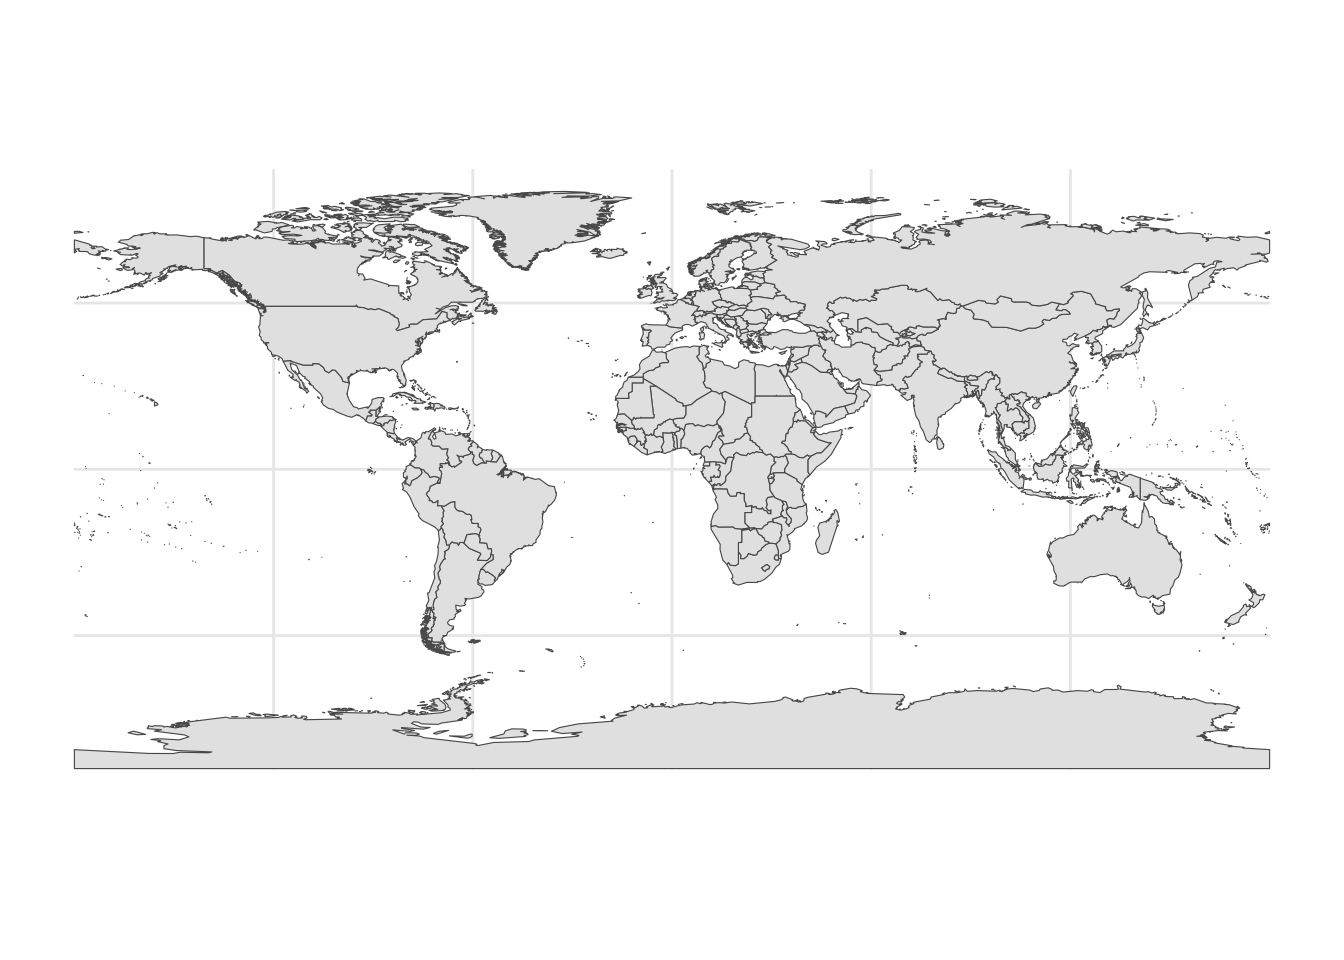
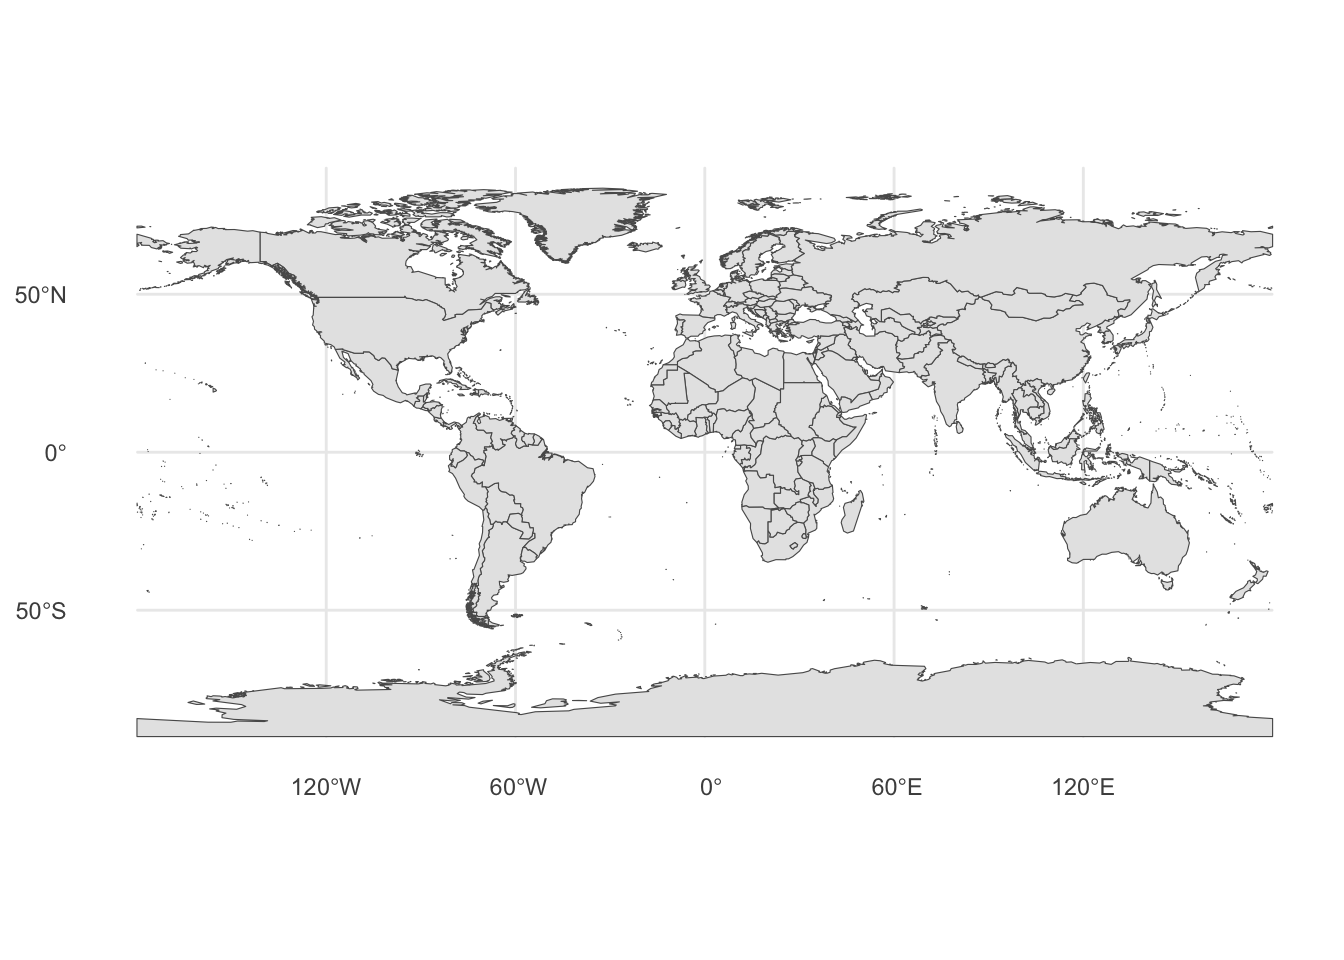
updated course outline

Changed region(s): [[0.0, 0.1875, 0.9688, 0.8438], [0.9062, 0.5938, 0.9375, 0.6562], [0.0, 0.625, 0.0625, 0.6562]]

diff --git a/docs/courseoutline.html b/docs/courseoutline.html
@@ -373,7 +373,7 @@ ul.task-list li input[type="checkbox"] {
 </div>
 </div>
 <div class="callout-body-container callout-body">
-<p>Mapping is fun. Many people enjoy looking at maps, and find them informative and helpful. Many people find it very fun to learn how to make maps. At the same time, making even basic maps with geographic data can be challenging. Making an aesthetically pleasing and useful map can be very challenging. We will work hard in this course to learn these important skills. At the same time, we will have fun doing so!</p>
+<p>Mapping is fun. Many people enjoy looking at maps, and find them informative and helpful. Many people find it very fun to learn how to make maps. At the same time, making even basic maps with geographic data can be challenging. Making an aesthetically pleasing and useful map can also be very challenging. We will work hard in this course to learn these important skills. At the same time, we will have fun doing so!</p>
 </div>
 </div>
 <section id="sec-fiveweek" class="level2" data-number="2.1">
@@ -382,21 +382,21 @@ ul.task-list li input[type="checkbox"] {
 <li>Introduction
 <ul>
 <li>Introduction to the Course</li>
-<li>Introduction to Shapefiles (and Possibly <code>sf</code> Objects) As GIS Data</li>
+<li>Introduction to Shapefiles (<a href="shapefiles.html" class="quarto-xref"><span>Chapter 8</span></a>) (and Possibly <code>sf</code> Objects) (<a href="sf.html" class="quarto-xref"><span>Chapter 7</span></a>) as GIS Data</li>
 <li>Introduction to Appropriate Software: R / RStudio / <code>sf</code> / <code>ggplot</code>; or ArcGIS; or QGIS; or Tableau</li>
 <li>Quick Mapping Exercise</li>
 </ul></li>
 <li>Basic GIS Skills
 <ul>
-<li>Symbology</li>
-<li>Joining by Attribute</li>
+<li>Symbology (<a href="symbology.html" class="quarto-xref"><span>Chapter 11</span></a>)</li>
+<li>Joining by Attribute (<a href="merge-with-external-data.html" class="quarto-xref"><span>Chapter 15</span></a>)</li>
 </ul></li>
 <li>Data With Geographic Coordinates &amp; Geographic Concepts
 <ul>
-<li>Data With Latitude and Longitude</li>
-<li>Coordinate Reference Systems</li>
+<li>Data With Latitude and Longitude (<a href="location-data.html" class="quarto-xref"><span>Chapter 16</span></a>)</li>
+<li>Coordinate Reference Systems (<a href="crs.html" class="quarto-xref"><span>Chapter 6</span></a>)</li>
 </ul></li>
-<li>Geocoding</li>
+<li>Geocoding (<a href="geocoding.html" class="quarto-xref"><span>Chapter 17</span></a>)</li>
 <li>Lab Day for Final Projects</li>
 </ol>
 </section>

diff --git a/docs/crs.html b/docs/crs.html
@@ -126,7 +126,7 @@ pre > code.sourceCode > span > a:first-child::before { text-decoration: underlin
 <meta name="twitter:image-height" content="960">
 <meta name="twitter:image-width" content="1344">
 <meta name="twitter:card" content="summary_large_image">
-<meta name="citation_title" content="[6]{.chapter-number}&nbsp; [Coordinate Reference Systems (CRS)]{.chapter-title}">
+<meta name="citation_title" content="[[6]{.chapter-number}&nbsp; [Coordinate Reference Systems (CRS)]{.chapter-title}]{#sec-CRS .quarto-section-identifier}">
 <meta name="citation_fulltext_html_url" content="https://agrogan1.github.io/mapping/crs.html">
 <meta name="citation_language" content="en">
 </head>
@@ -394,7 +394,7 @@ pre > code.sourceCode > span > a:first-child::before { text-decoration: underlin
 
 <header id="title-block-header" class="quarto-title-block default"><nav class="quarto-page-breadcrumbs quarto-title-breadcrumbs d-none d-lg-block" aria-label="breadcrumb"><ol class="breadcrumb"><li class="breadcrumb-item"><a href="./latitude-and-longitude.html">Geographical and GIS Concepts</a></li><li class="breadcrumb-item"><a href="./crs.html"><span class="chapter-number">6</span>&nbsp; <span class="chapter-title">Coordinate Reference Systems (CRS)</span></a></li></ol></nav>
 <div class="quarto-title">
-<h1 class="title"><span class="chapter-number">6</span>&nbsp; <span class="chapter-title">Coordinate Reference Systems (CRS)</span></h1>
+<h1 class="title"><span id="sec-CRS" class="quarto-section-identifier"><span class="chapter-number">6</span>&nbsp; <span class="chapter-title">Coordinate Reference Systems (CRS)</span></span></h1>
 </div>
 
 
@@ -446,7 +446,7 @@ pre > code.sourceCode > span > a:first-child::before { text-decoration: underlin
 Geometry type: MULTIPOLYGON
 Dimension:     XY
 Bounding box:  xmin: -61.88722 ymin: -18.01639 xmax: 50.37499 ymax: 42.61805
-Geodetic CRS:  GCS_unknown
+Geodetic CRS:  +proj=longlat +datum=WGS84 +no_defs
 # A tibble: 6 × 11
   FIPS  ISO2  ISO3     UN NAME                AREA REGION SUBREGION    LON   LAT
   &lt;chr&gt; &lt;chr&gt; &lt;chr&gt; &lt;int&gt; &lt;chr&gt;              &lt;int&gt;  &lt;int&gt;     &lt;int&gt;  &lt;dbl&gt; &lt;dbl&gt;
@@ -470,9 +470,9 @@ Geodetic CRS:  GCS_unknown
 </details>
 <div class="cell-output cell-output-stdout">
 <pre><code>Coordinate Reference System:
-  User input: GCS_unknown 
+  User input: unknown 
   wkt:
-GEOGCRS["GCS_unknown",
+GEOGCRS["unknown",
     DATUM["World Geodetic System 1984",
         ELLIPSOID["WGS 84",6378137,298.257223563,
             LENGTHUNIT["metre",1]],

diff --git a/docs/index.html b/docs/index.html
@@ -7,7 +7,7 @@
 <meta name="viewport" content="width=device-width, initial-scale=1.0, user-scalable=yes">
 
 <meta name="author" content="Andrew Grogan-Kaylor">
-<meta name="dcterms.date" content="2026-06-23">
+<meta name="dcterms.date" content="2026-06-24">
 
 <title>Mapping</title>
 <style>
@@ -97,10 +97,10 @@ ul.task-list li input[type="checkbox"] {
 <meta name="twitter:card" content="summary">
 <meta name="citation_title" content="Mapping">
 <meta name="citation_author" content="Andrew Grogan-Kaylor">
-<meta name="citation_publication_date" content="2026-06-23">
-<meta name="citation_cover_date" content="2026-06-23">
+<meta name="citation_publication_date" content="2026-06-24">
+<meta name="citation_cover_date" content="2026-06-24">
 <meta name="citation_year" content="2026">
-<meta name="citation_online_date" content="2026-06-23">
+<meta name="citation_online_date" content="2026-06-24">
 <meta name="citation_fulltext_html_url" content="https://agrogan1.github.io/mapping/">
 <meta name="citation_language" content="en">
 </head>
@@ -382,7 +382,7 @@ ul.task-list li input[type="checkbox"] {
     <div>
     <div class="quarto-title-meta-heading">Published</div>
     <div class="quarto-title-meta-contents">
-      <p class="date">June 23, 2026</p>
+      <p class="date">June 24, 2026</p>
     </div>
   </div>
   